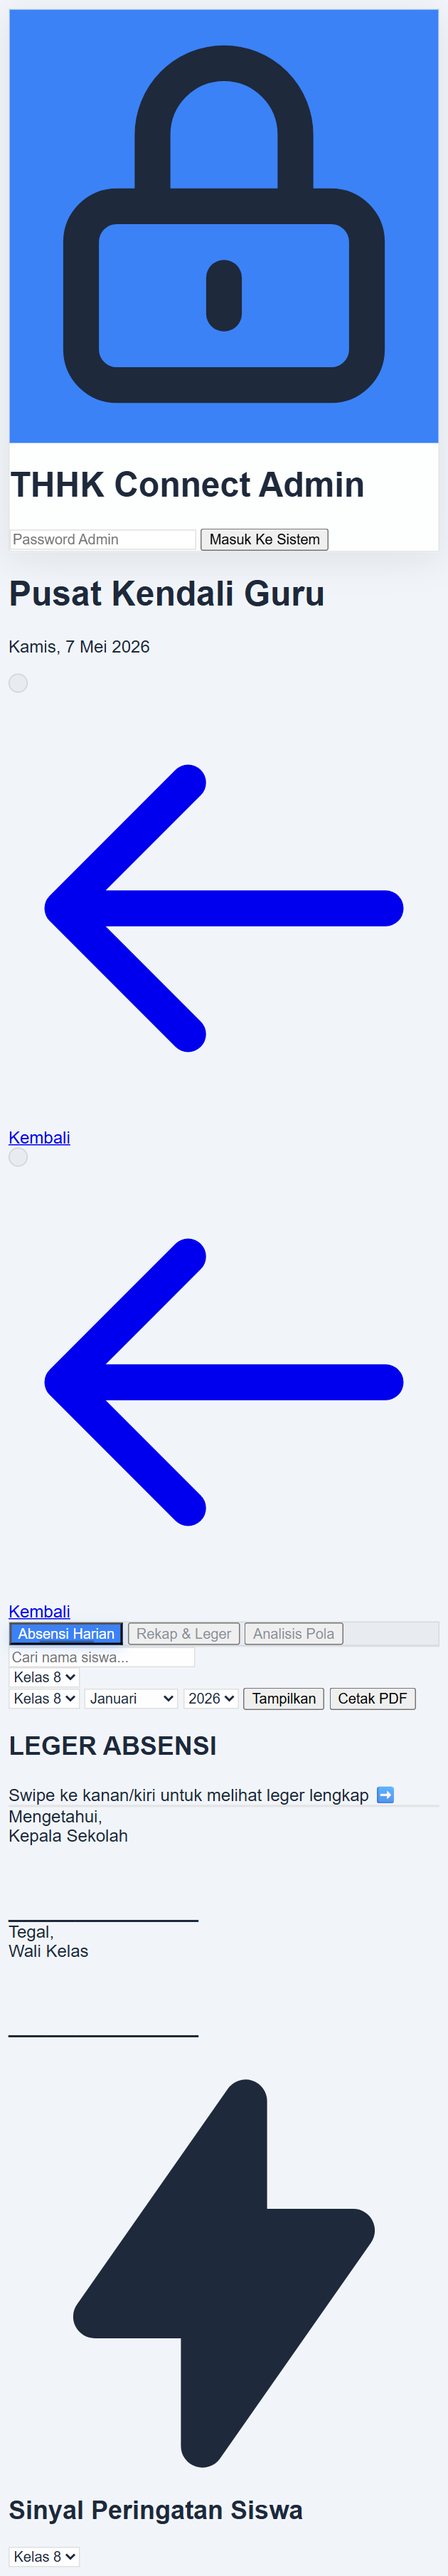
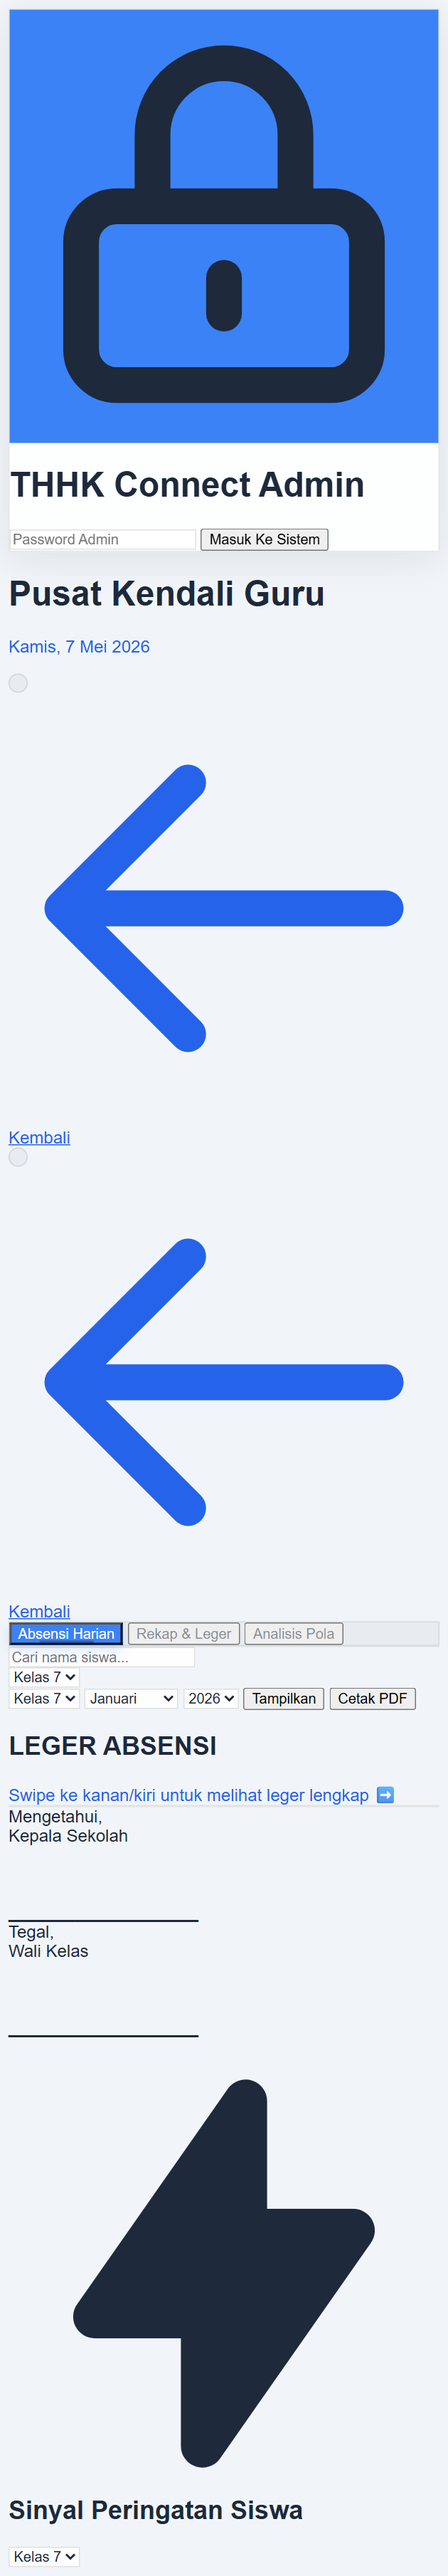
Update Thu 07/16/2026  5:51:13.57

Changed region(s): [[0.0905, 0.4682, 0.9048, 0.5931], [0.0905, 0.2809, 0.9048, 0.4058], [0.1206, 0.6243, 0.1508, 0.6555]]

diff --git a/admin.html b/admin.html
@@ -392,6 +392,7 @@
                     <input type="text" id="search-student" oninput="renderDaily()" placeholder="Cari nama siswa..." class="w-full rounded-2xl px-6 py-4 focus:outline-none focus:ring-2 focus:ring-blue-500/50" style="background: var(--input-bg); border: 1px solid var(--input-border); color: var(--text-primary);">
                 </div>
                 <select id="daily-kelas" onchange="loadDaily()" class="rounded-xl px-4 py-2" style="background: var(--select-bg); border: 1px solid var(--select-border); color: var(--text-primary);">
+                    <option value="7">Kelas 7</option>
                     <option value="8">Kelas 8</option>
                     <option value="9">Kelas 9</option>
                 </select>
@@ -406,6 +407,7 @@
         <div id="content-recap" class="hidden space-y-6">
             <div class="flex flex-wrap gap-2 no-print">
                 <select id="recap-kelas" class="rounded-lg px-4 py-2" style="background: var(--select-bg); border: 1px solid var(--select-border); color: var(--text-primary);">
+                    <option value="7">Kelas 7</option>
                     <option value="8">Kelas 8</option>
                     <option value="9">Kelas 9</option>
                 </select>
@@ -455,6 +457,7 @@
                     Sinyal Peringatan Siswa
                 </h2>
                 <select id="analysis-kelas" onchange="loadAnalysis()" class="rounded-lg px-4 py-2" style="background: var(--select-bg); border: 1px solid var(--select-border); color: var(--text-primary);">
+                    <option value="7">Kelas 7</option>
                     <option value="8">Kelas 8</option>
                     <option value="9">Kelas 9</option>
                 </select>

diff --git a/guru_piket.html b/guru_piket.html
@@ -506,9 +506,9 @@
                 </button>
                 <select id="filter-kelas" onchange="loadStudents()" 
                         class="bg-slate-800/60 border border-slate-700/60 rounded-xl px-4 py-2.5 text-sm font-semibold text-white focus:outline-none focus:border-indigo-500 transition-all cursor-pointer">
+                    <option value="7" class="bg-slate-900 text-white">Kelas 7</option>
                     <option value="8" class="bg-slate-900 text-white">Kelas 8</option>
                     <option value="9" class="bg-slate-900 text-white">Kelas 9</option>
-                    <option value="7" class="bg-slate-900 text-white">Kelas 7</option>
                 </select>
                 <button onclick="loadStudents()" class="p-2.5 glass-card rounded-xl hover:bg-slate-800 border border-slate-700/60 text-slate-300 hover:text-white transition-all active:scale-95" title="Refresh Data">
                     <svg class="w-5 h-5" fill="none" stroke="currentColor" viewBox="0 0 24 24"><path stroke-linecap="round" stroke-linejoin="round" stroke-width="2" d="M4 4v5h.582m15.356 2A8.001 8.001 0 004.582 9m0 0H9m11 11v-5h-.581m0 0a8.003 8.003 0 01-15.357-2m15.357 2H15"></path></svg>

diff --git a/rekap.html b/rekap.html
@@ -986,9 +986,9 @@
                     <div class="flex flex-col gap-1">
                         <label class="text-[10px] font-bold text-indigo-300 uppercase tracking-wider">Kelas</label>
                         <select id="sel-kelas" class="pill-select" onchange="fetchData()">
+                            <option value="7">Kelas 7</option>
                             <option value="8">Kelas 8</option>
                             <option value="9">Kelas 9</option>
-                            <option value="7">Kelas 7</option>
                         </select>
                     </div>
 
